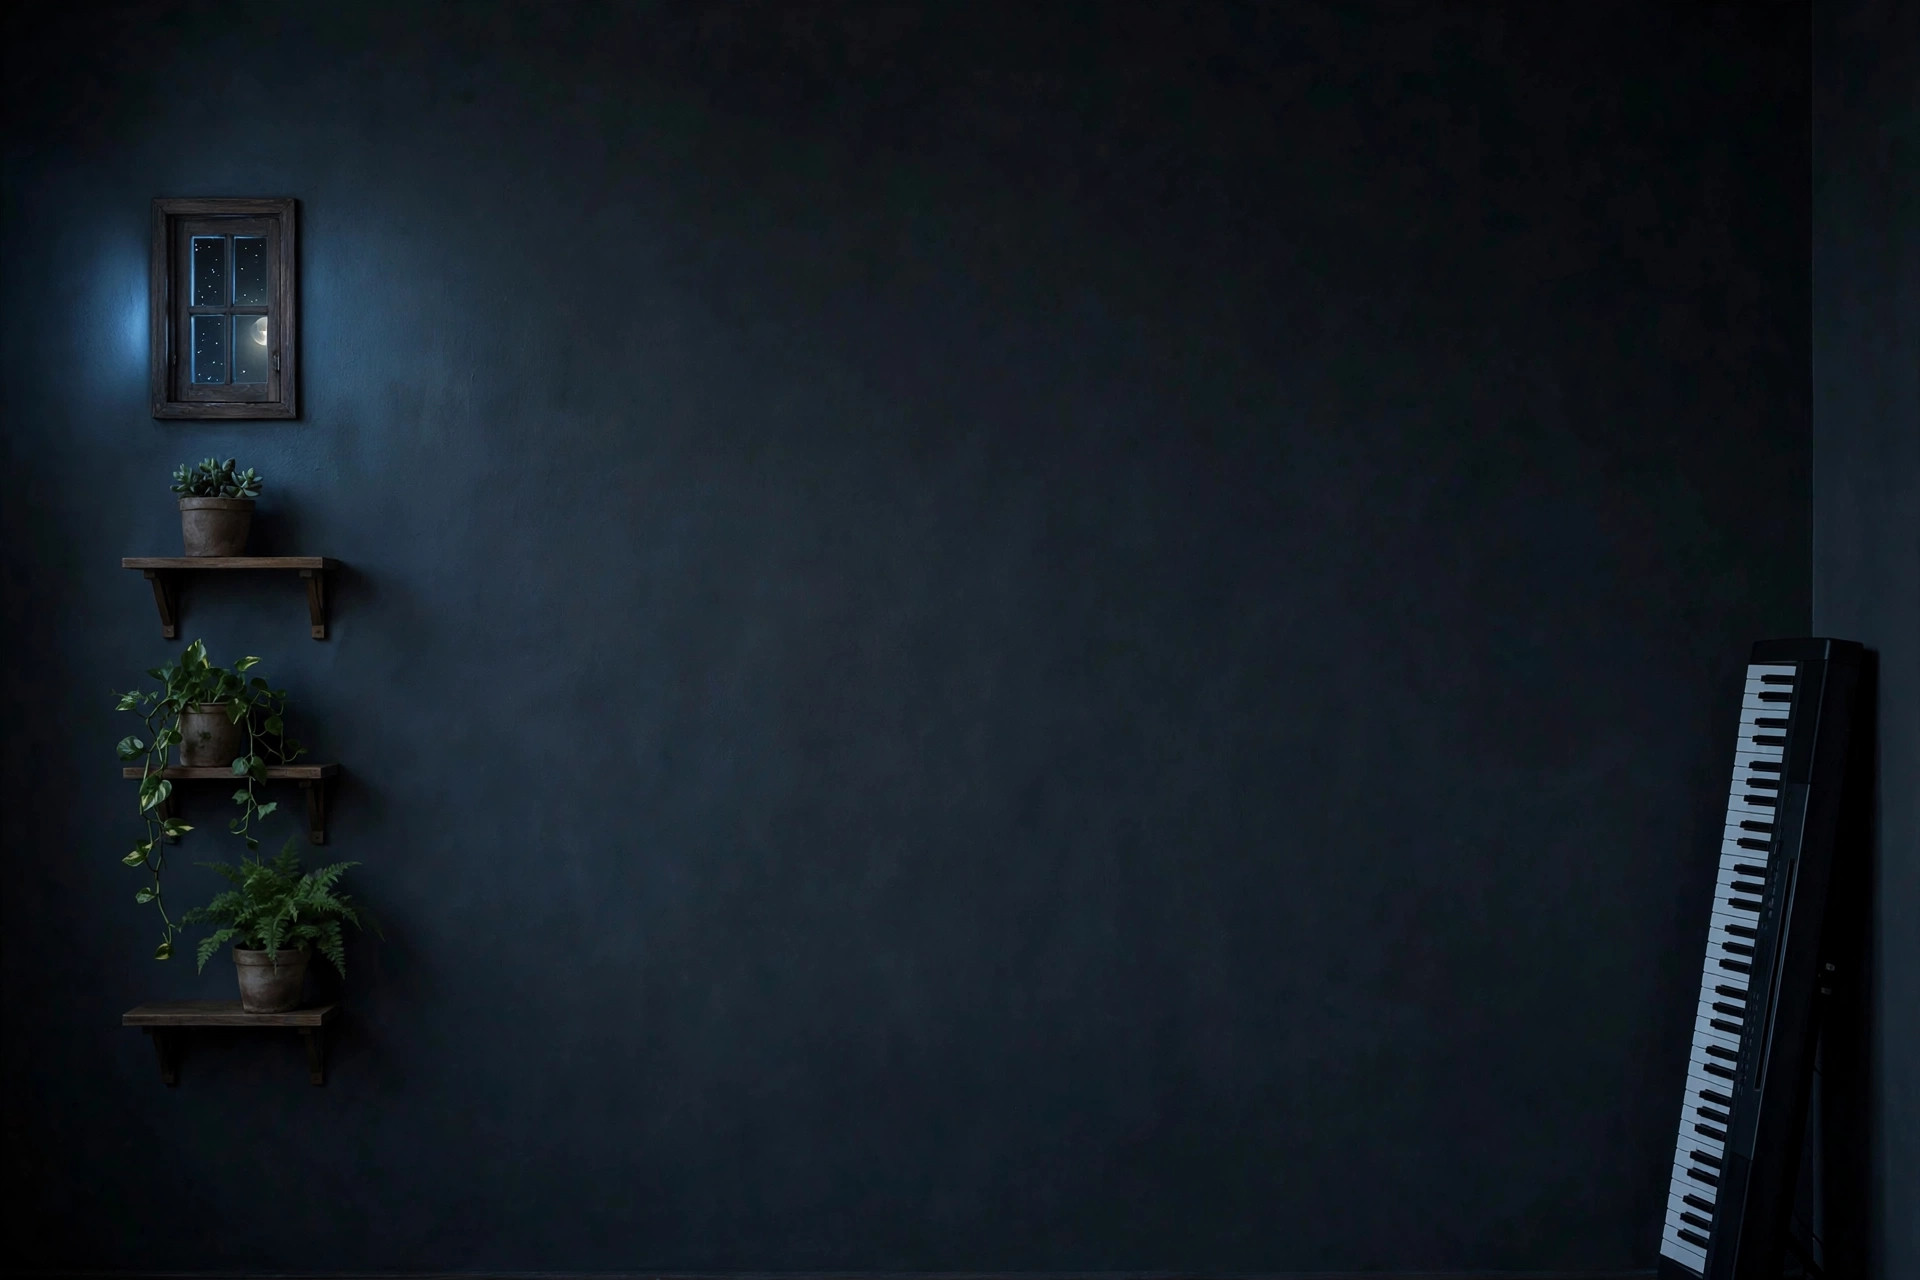
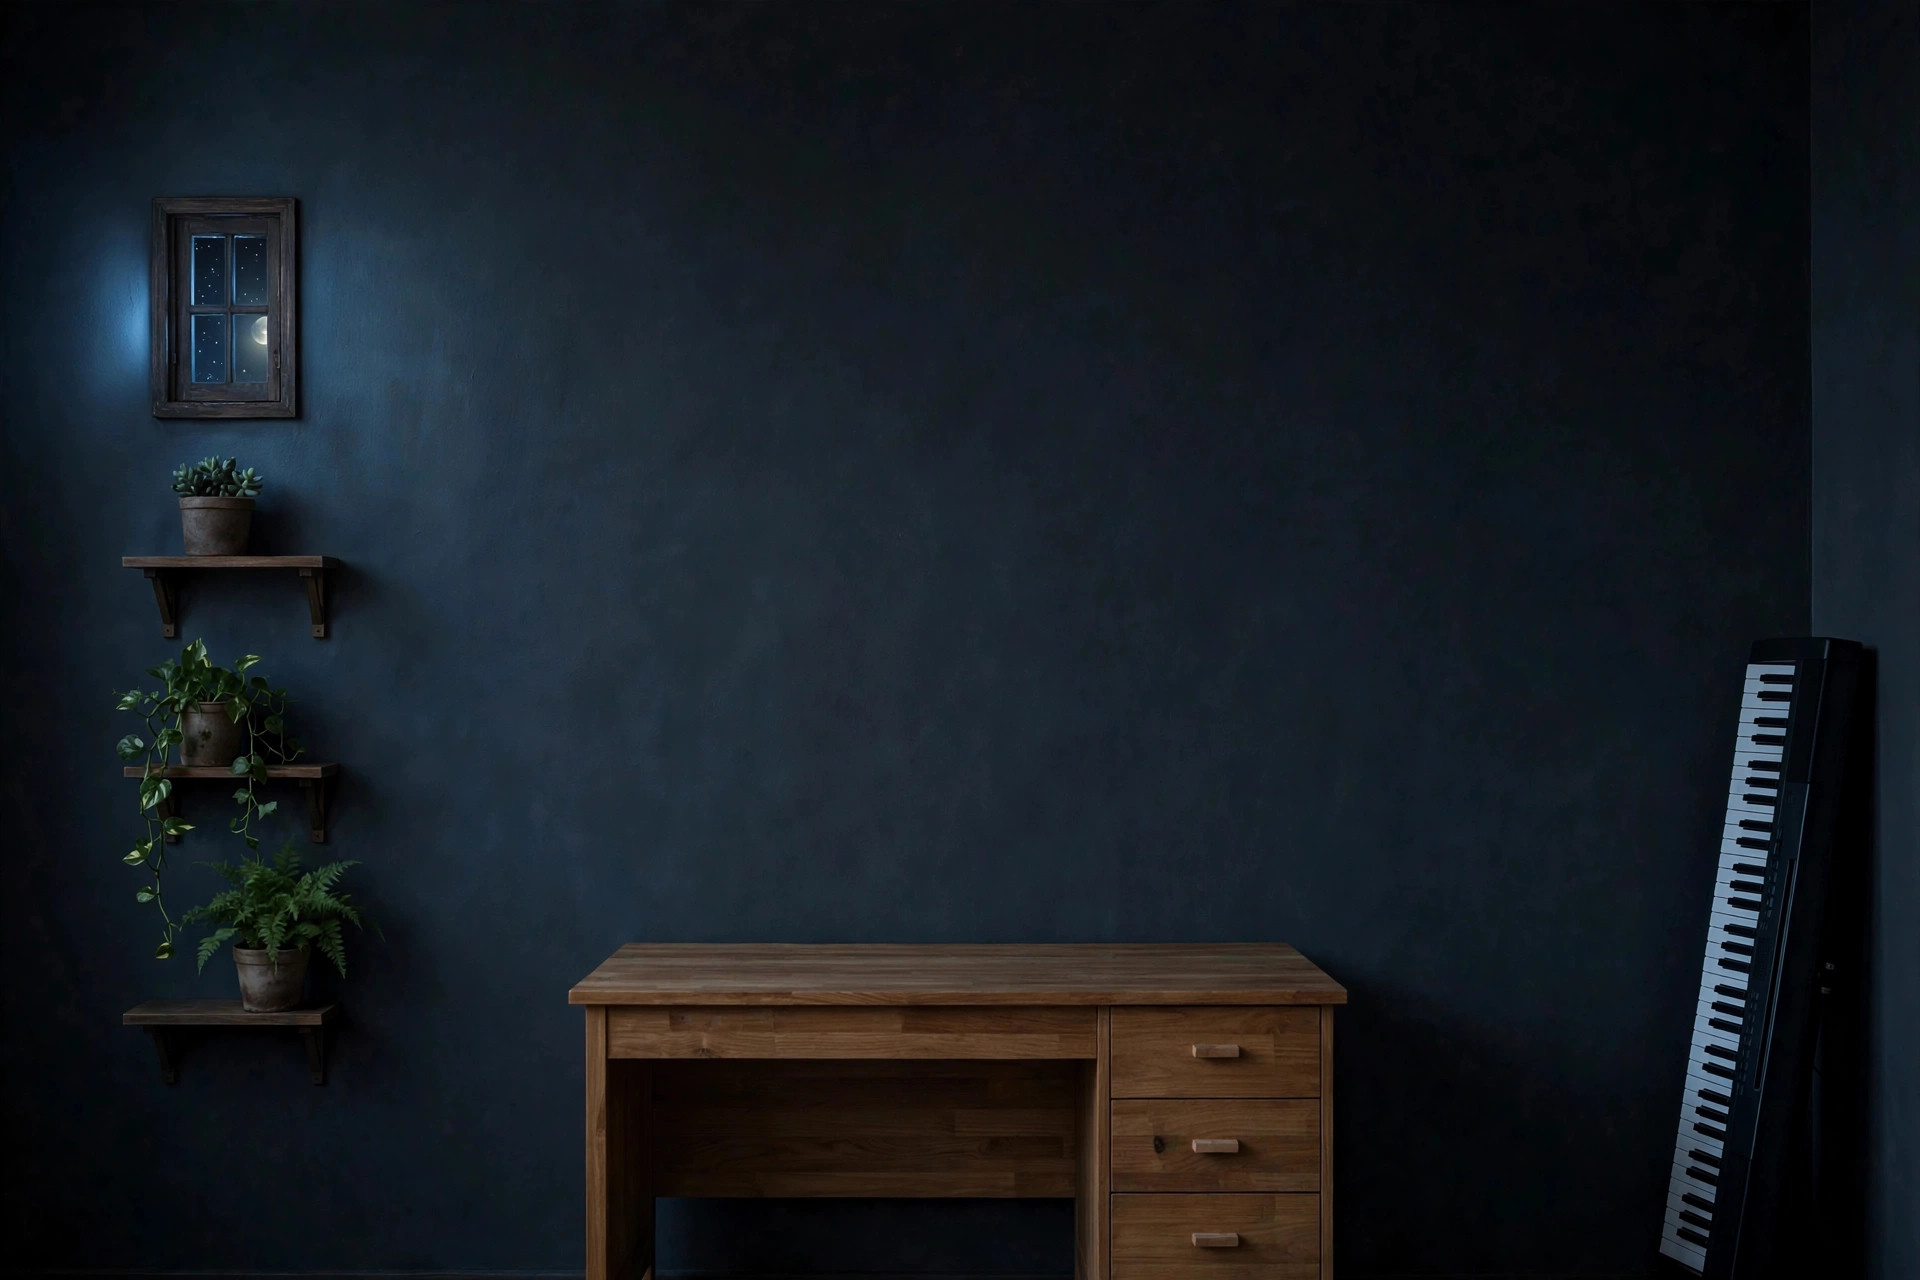
Desk baked into day/night backgrounds, bonus candle on desk
- Regenerate office-wall-day.jpg and office-wall-night.jpg with the
  wooden desk (drawer unit right) integrated.
- Bonus candle appears on the background desk when bonus is on.

diff --git a/src/components/Office.vue b/src/components/Office.vue
@@ -3,8 +3,10 @@ import { computed, ref } from 'vue';
 import Bookshelf from './Bookshelf.vue';
 import BookView from './BookView.vue';
 import { useOfficeStore } from '../stores/office';
+import { useBonusStore } from '../stores/bonus';
 
 const office = useOfficeStore();
+const bonus = useBonusStore();
 const bookViewRef = ref<InstanceType<typeof BookView> | null>(null);
 
 defineEmits(['open-book', 'back-to-cover', 'back-to-cover-section', 'finale-contact']);
@@ -29,6 +31,12 @@ const trackClass = computed(() => ({
           :show-manuscript="!office.manuscriptBound"
           @open-book="$emit('open-book')"
         />
+        <!-- Bonus candle on the background desk. -->
+        <div
+          v-if="bonus.enabled && !bonus.candleGone"
+          class="shelf-candle"
+          aria-hidden="true"
+        ></div>
         <!-- Cover manuscript overlay (home page hero) when not bound. -->
         <div
           v-if="!office.manuscriptBound"
@@ -157,5 +165,37 @@ const trackClass = computed(() => ({
 /* Theme-based background swap (non-scoped: html selector). */
 html[data-theme='dark'] .office-scene {
   background: url('/office-wall-night.jpg') center / cover no-repeat, #0a0d14;
+}
+</style>
+
+<style>
+/* Bonus candle sitting on the background desk. */
+.shelf-candle {
+  position: absolute;
+  left: 38%;
+  bottom: 18%;
+  width: 16px;
+  height: 64px;
+  z-index: 3;
+  pointer-events: none;
+  background: linear-gradient(180deg, #e8dcc0 0%, #c9b896 100%);
+  border-radius: 3px 3px 0 0;
+  box-shadow: 0 2px 8px rgba(0, 0, 0, 0.4);
+}
+.shelf-candle::before {
+  content: '';
+  position: absolute;
+  left: 50%;
+  top: -16px;
+  width: 12px;
+  height: 18px;
+  transform: translateX(-50%);
+  background: radial-gradient(ellipse at 50% 70%, #ffd97a 0%, #ff9a3c 60%, transparent 70%);
+  border-radius: 50% 50% 50% 50% / 60% 60% 40% 40%;
+  animation: shelf-flicker 1.2s ease-in-out infinite alternate;
+}
+@keyframes shelf-flicker {
+  from { transform: translateX(-50%) scale(1); opacity: 1; }
+  to { transform: translateX(-50%) scale(1.08); opacity: 0.92; }
 }
 </style>
